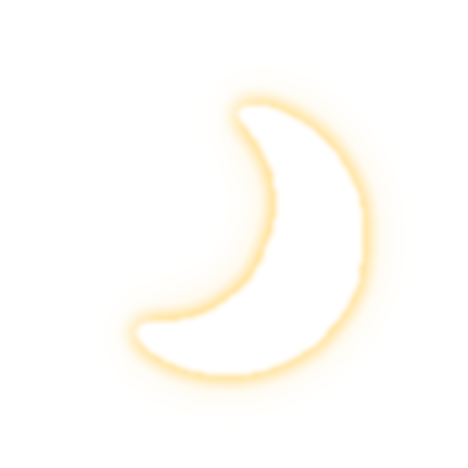
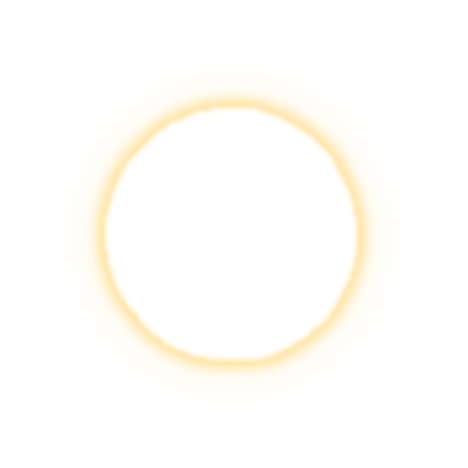
change: 미니 놀이터 초승달을 보름달로 교체 — 운세 배경의 보름달을 잘라 금빛으로 살짝 틀어 이식하고(두 페이지가 같아 보이지 않게) 초승달 자리는 같은 높이 하늘로 메움. 발광 이미지도 새 원반에서 재생성(등가 반경 42.1로 타 행성과 동일)하고, 초승달 전용이던 마스크·텍스트 경로를 걷어내 다른 행성과 똑같은 CLICK 고리로 통일

Changed region(s): [[0.1795, 0.1795, 0.8077, 0.8376]]

diff --git a/play/mini.html b/play/mini.html
@@ -165,7 +165,7 @@
       var ring = document.createElement("div"); ring.className = "pl-ring";
       document.body.appendChild(ring);
       var clk = document.createElement("div");
-      clk.innerHTML = '<svg class="pl-click" viewBox="0 0 156 156" aria-hidden="true"><defs><path id="plRingFront" d="M 66,106 A 30,30 0 0 0 108,87" /><mask id="plBehind"><rect x="-40" y="-40" width="236" height="236" fill="#fff" /><image href="../design/img/mask-mini.png" x="0" y="0" width="156" height="156" style="filter:invert(1)" /></mask><filter id="plRingGlow" x="-50%" y="-50%" width="200%" height="200%"><feDropShadow dx="0" dy="0" stdDeviation="2.2" flood-color="#ffe6b8" flood-opacity=".85" /></filter></defs><g filter="url(#plRingGlow)"><text fill="#4a3418" font-family="Jua, sans-serif" font-size="13.5" letter-spacing=".8" font-weight="700" stroke="#ffeec8" stroke-width=".5" paint-order="stroke"><textPath href="#plRingFront" startOffset="50%" text-anchor="middle" dominant-baseline="middle">CLICK</textPath></text></g></svg>';
+      clk.innerHTML = '<svg class="pl-click" viewBox="0 0 156 156" aria-hidden="true"><defs><path id="plRingFront" d="M 6,78 A 72,24 0 0 0 150,78" /><mask id="plBehind"><rect x="-40" y="-40" width="236" height="236" fill="#fff" /><circle cx="78" cy="78" r="43" fill="#000" /></mask><filter id="plRingGlow" x="-50%" y="-50%" width="200%" height="200%"><feDropShadow dx="0" dy="0" stdDeviation="2.2" flood-color="#ffe6b8" flood-opacity=".85" /></filter></defs><g transform="rotate(-16 78 78)" filter="url(#plRingGlow)"><path d="M 6,78 A 72,24 0 0 1 150,78" fill="none" stroke="#ffe6b8" stroke-width="4.5" stroke-linecap="round" mask="url(#plBehind)" opacity=".9" /><path d="M 6,78 A 72,24 0 0 0 150,78" fill="none" stroke="#ffe6b8" stroke-width="5" stroke-linecap="round" stroke-dasharray="31 98" /><text fill="#4a3418" font-family="Jua, sans-serif" font-size="30" letter-spacing="1.5" font-weight="700" stroke="#ffeec8" stroke-width="1.1" paint-order="stroke"><textPath href="#plRingFront" startOffset="50%" text-anchor="middle" dominant-baseline="middle">CLICK</textPath></text></g></svg>';
       clk = clk.firstElementChild;
       document.body.appendChild(clk);
       document.body.appendChild(hot); document.body.appendChild(menu);
